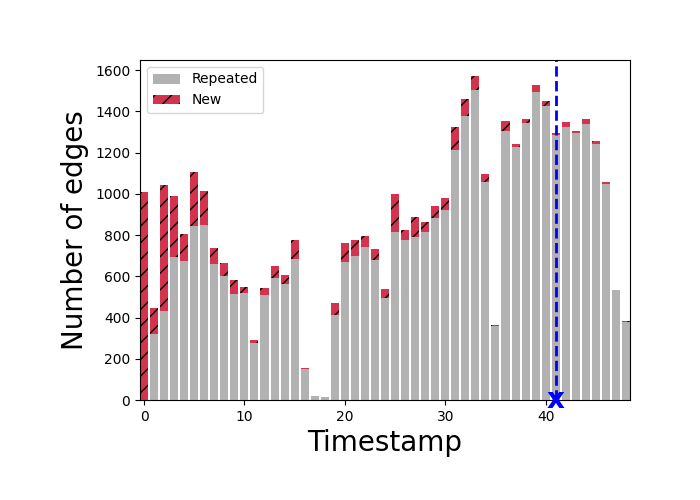
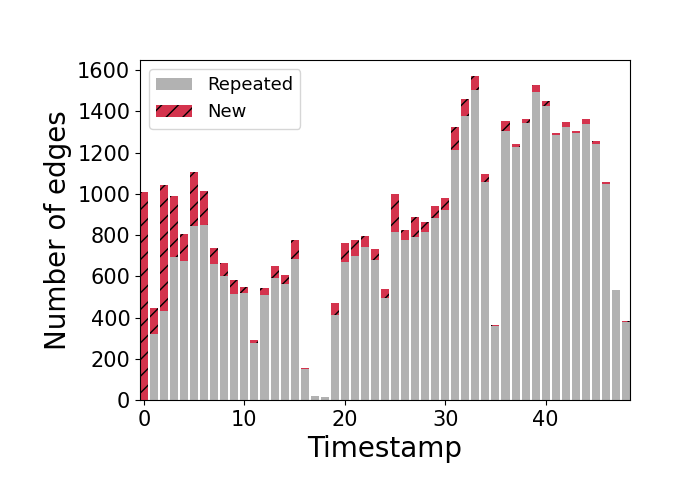
update

diff --git a/examples/test.py b/examples/test.py
@@ -8,20 +8,20 @@ from tgb.nodeproppred.dataset import NodePropPredDataset
 start_time = time.time()
 
 data_path = '/network/scratch/r/razieh.shirzadkhani/'
-dataset = tgx.data.mooc(root=data_path)
+dataset = tgx.data.social_evo(root=data_path)
 # dataset = tgx.data.tgb("tgbl-wiki")
-data = tgx.read_edgelist(data=dataset, discretize=True, intervals=50)
+data = tgx.read_edgelist(data=dataset, discretize=True, intervals=49)
 
 # print(get_index_metrics(train_data, test_data))
 # r = get_reoccurrence(data)
 # r = get_surprise(data)
 
 
-G = tgx.Graph(data)
-plot_path = "./examples/plots/"
+# G = tgx.Graph(data)
+# plot_path = "./examples/plots/"
 # tgx.nodes_and_edges_per_ts(G.discrite_graph, plot_path=plot_path , network_name=dataset.name)
-total_nodes = G.number_of_nodes()
-tgx.average_degree_per_ts(G.discrite_graph, total_nodes, plot_path=plot_path, network_name=dataset.name+'2')
+# total_nodes = G.number_of_nodes()
+# tgx.average_degree_per_ts(G.discrite_graph, total_nodes, plot_path=plot_path, network_name=dataset.name+'2')
 
 # total_nodes = G.number_of_nodes()
 # plot_path = "./examples/plots/"
@@ -33,11 +33,11 @@ tgx.average_degree_per_ts(G.discrite_graph, total_nodes, plot_path=plot_path, ne
 # tgx.average_degree_per_ts(G.subsampled_graph, n_sampling, plot_path=plot_path, network_name=dataset.name)
 
 
-# TEA_path = "./examples/plots/TEA/"
+TEA_path = "./examples/plots/TEA/"
 
-# tgx.TEA(new_edges, TEA_path, network_name=dataset.name)
-# TET_path = "./examples/plots/TET/"
-# tgx.TET(data, filepath = TET_path, network_name=dataset.name, test_split=True)
+tgx.TEA(data, filepath = TEA_path, network_name=dataset.name)
+TET_path = "./examples/plots/TET/"
+tgx.TET(data, filepath = TET_path, network_name=dataset.name)
 
 print("--- Total elapsed time: %s seconds ---" % (time.time() - start_time))
 

diff --git a/tgx/visualizations/TET.py b/tgx/visualizations/TET.py
@@ -239,7 +239,7 @@ def plot_edge_presence_matrix(e_presence_mat, test_split_ts_value, unique_ts_lis
             break
 
     # rectangle for different parts of the dataset
-    if add_frames:
+    if add_frames and test_split:
         print("Info: Border edge index:", e_border_idx)
         print("Info: Test split timestamp value:", test_split_ts_value)
         rect_train = plt.Rectangle((0, y_length - test_split_ts_value + 0.085), e_border_idx, test_split_ts_value + 0.9,
@@ -253,11 +253,15 @@ def plot_edge_presence_matrix(e_presence_mat, test_split_ts_value, unique_ts_lis
         ax.add_patch(rect_train)
         ax.add_patch(rect_test_mayseen)
         ax.add_patch(rect_test_new)
-
+    
+    elif add_frames:
+        ax.add_patch(plt.Rectangle((0, 0), x_length, y_length,
+                                          fill=False, linewidth=2, edgecolor=frame_color))
     # test split horizontal line
-    plt.axhline(y=test_split_idx_value, color=time_split_color, linestyle="--", linewidth=2, label='x')
-    plt.text(x=0, y=test_split_idx_value, s='x', color=time_split_color, va='center', ha='center',
-             fontsize=y_font_size, fontweight='heavy')
+    if test_split:
+        plt.axhline(y=test_split_idx_value, color=time_split_color, linestyle="--", linewidth=2, label='x')
+        plt.text(x=0, y=test_split_idx_value, s='x', color=time_split_color, va='center', ha='center',
+                fontsize=y_font_size, fontweight='heavy')
 
     if fig_param.fig_name is not None:
         # print("Info: file name: {}".format(fig_param.fig_name))

diff --git a/tgx/visualizations/TEA.py b/tgx/visualizations/TEA.py
@@ -170,8 +170,8 @@ def TEA_plot_edges_bar(ts_edges_dist,
     # test split line
     if test_split:
         plt.axvline(x=(timestamps[int(0.85 * len(timestamps))]), color="blue", linestyle="--", linewidth=2)
-    plt.text((timestamps[int(0.85 * len(timestamps))]), 0,
-             'x', va='center', ha='center', fontsize=font_size, fontweight='heavy', color='blue')
+        plt.text((timestamps[int(0.85 * len(timestamps))]), 0,
+                'x', va='center', ha='center', fontsize=font_size, fontweight='heavy', color='blue')
 
     plt.margins(x=0)
     plt.xlabel("Timestamp", fontsize=font_size)
